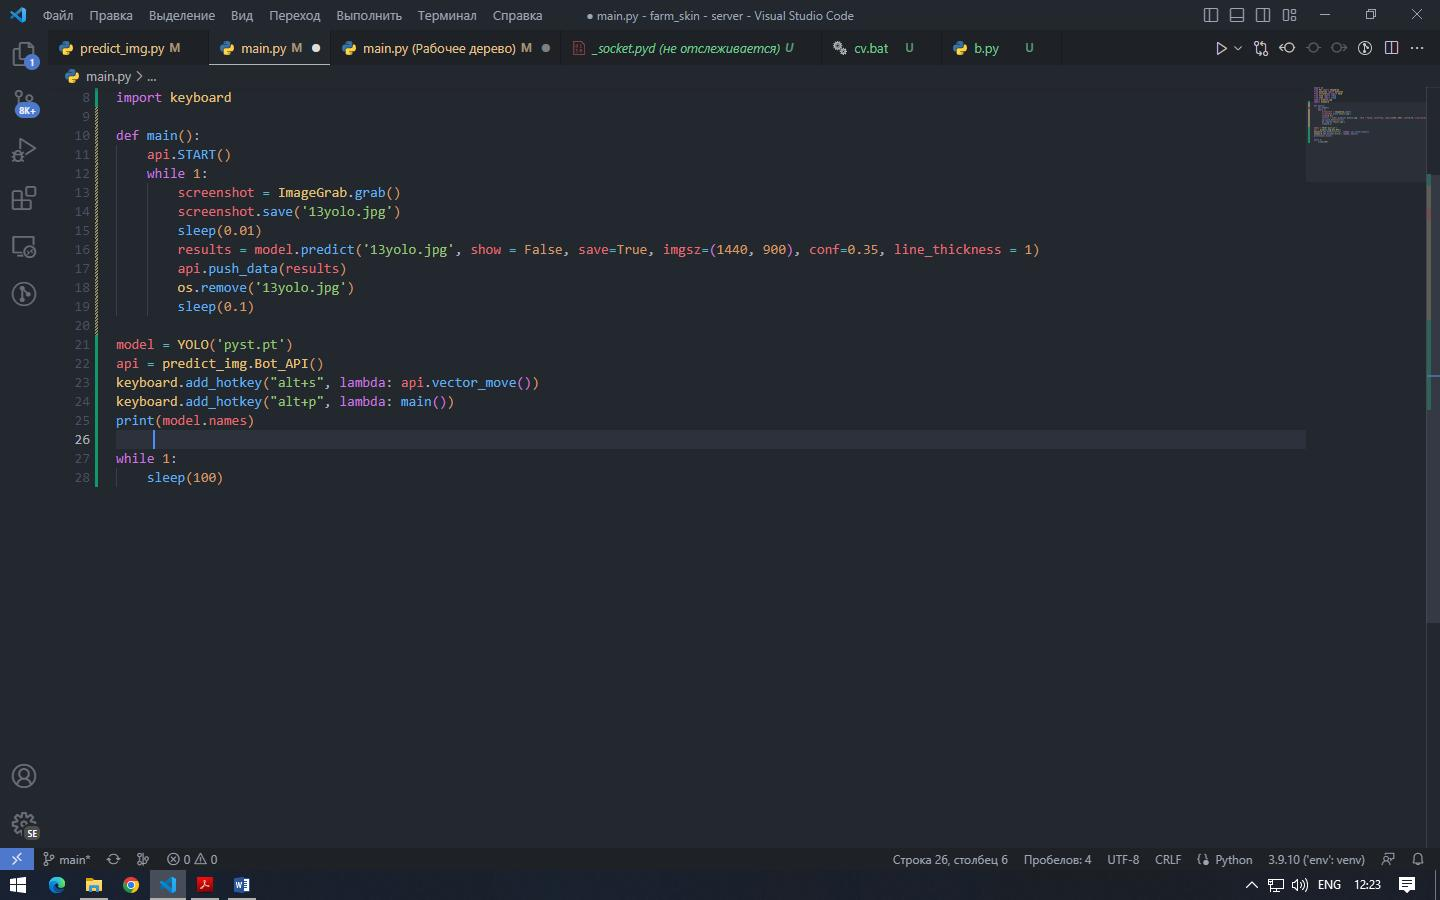
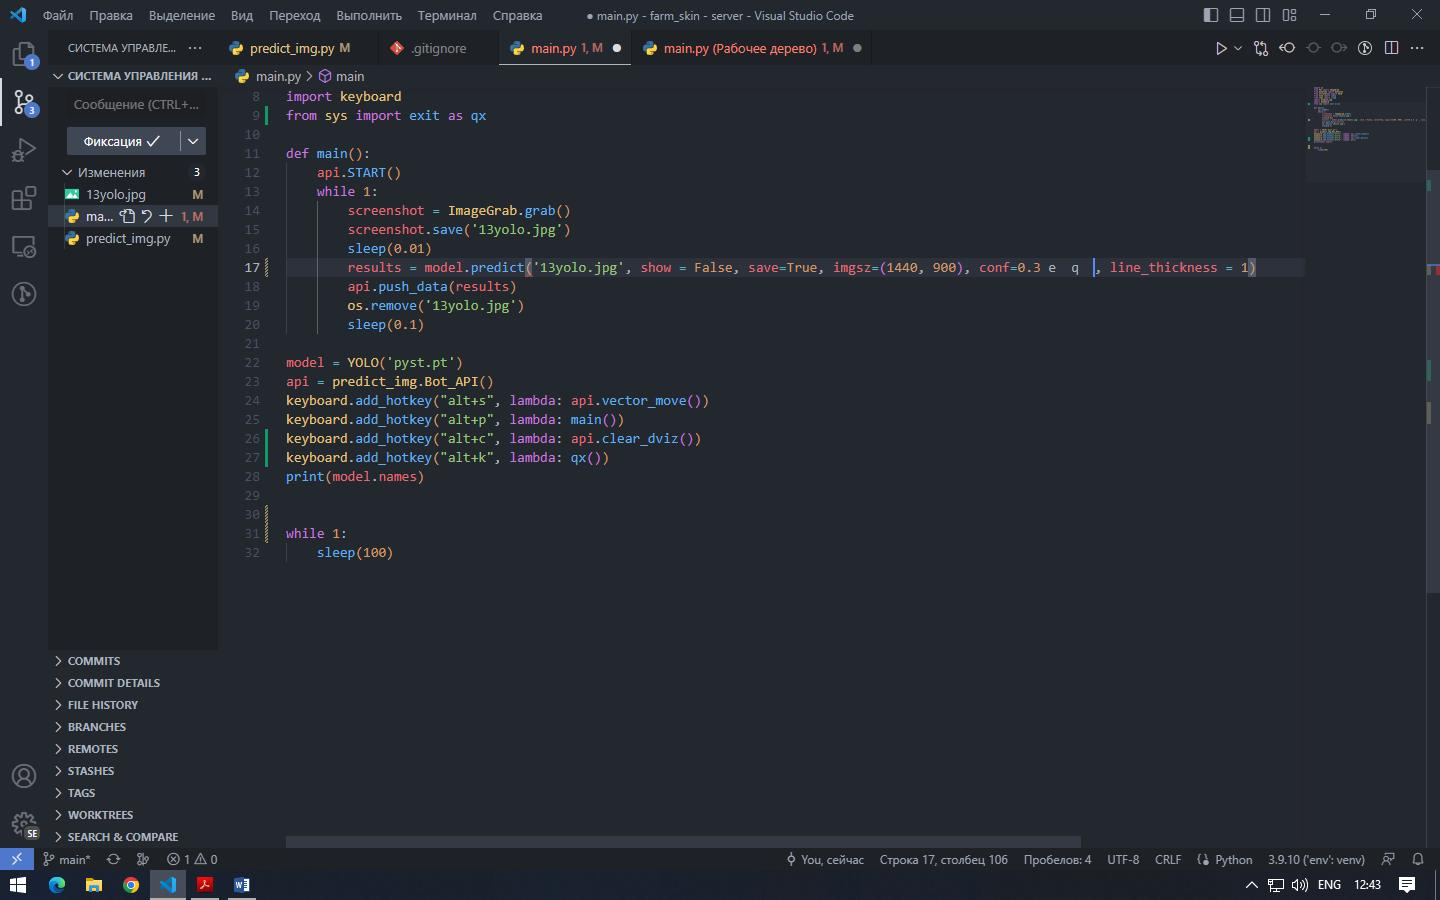
aaaaaa

diff --git a/predict_img.py b/predict_img.py
@@ -38,12 +38,14 @@ class Bot_API:
         print('START')
         thread = threading.Thread(target=self.movement, args=())
         thread.start()
-        thread = threading.Thread(target=self.space_click, args=())
-        thread.start()
     
     def vector_move(self):
         self.dviz += [pag.position()]
         print(self.dviz)
+
+    def clear_dviz(self):
+        print('CLEAR')
+        self.dviz = []
 
     def push_data(self, results):
         mobs = [[], []]
@@ -83,19 +85,13 @@ class Bot_API:
         while 1:
             if self.dviz:
                 for i in self.dviz:
-                    for j in range(3):
-                        if self.mode == 0:
-                            pag.click(i[0], i[1])
-                            sleep(1.6)
-                        else:
-                            sleep(2)
+                    if self.mode == 0:
+                        pag.click(i[0], i[1])
+                        sleep(1.6)
+                    else:
+                        sleep(2)
                 else:
                     sleep(1)
-    def space_click(self):
-            while 1:
-                pag.press('space')
-                sleep(1)
-
 
     def looting(self, xy):
         self.mode = 2
@@ -106,12 +102,19 @@ class Bot_API:
         self.mode = 1
         pag.click(xy[0], xy[1])
         sleep(1)
+        pag.press('space')
         pag.press('r')
+        pag.press('space')
         sleep(1.5)
+        pag.press('space')
         pag.press('e')
+        pag.press('space')
         sleep(1.5)
+        pag.press('space')
         pag.press('q')
+        pag.press('space')
         sleep(1)
+        pag.press('space')
 
 
 # bot = Bot_API().START()

diff --git a/main.py b/main.py
@@ -6,6 +6,7 @@ from time import sleep
 from time import sleep
 import predict_img
 import keyboard
+from sys import exit as qx
     
 def main():
     api.START()
@@ -22,8 +23,10 @@ model = YOLO('pyst.pt')
 api = predict_img.Bot_API()
 keyboard.add_hotkey("alt+s", lambda: api.vector_move())   
 keyboard.add_hotkey("alt+p", lambda: main()) 
+keyboard.add_hotkey("alt+c", lambda: api.clear_dviz())
+keyboard.add_hotkey("alt+k", lambda: qx()) 
 print(model.names)
 
-
-while 1:
+ 
+while 1: 
     sleep(100)
